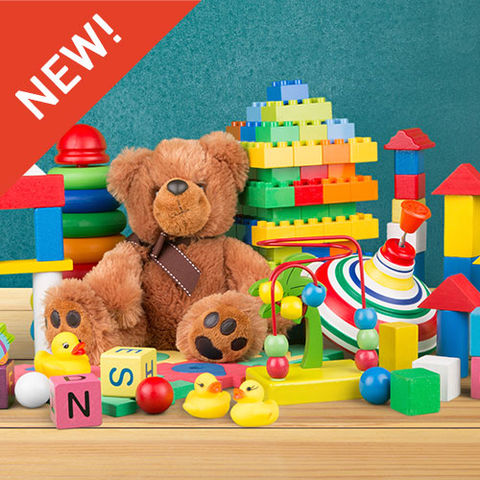
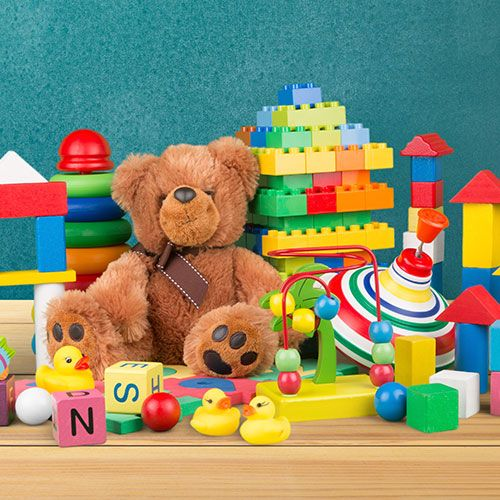
Fix #250. Add isNew property to giftideas object. check isNew property and add ribbon label to new gift ideas. showing isNew gift ideas first, then shuffled ideas after. Update images with 'new' label inside image to regular images.

diff --git a/client/scripts/giftideas/giftideas.ng.html b/client/scripts/giftideas/giftideas.ng.html
@@ -96,8 +96,11 @@
     </div>
     <div class="ui segment basic">
         <div class="ui five doubling cards">
-            <div ng-repeat="idea in giftideas" class="giftidea card">
-                <a class="image" href="{{idea.url}}">
+            <div ng-repeat="idea in giftideas|orderBy:'isNew':true" class="giftidea card">
+                <a class="ui image" href="{{idea.url}}">
+                    <div class="ui red ribbon label" ng-show="{{idea.isNew}}">
+                          <i class="gift icon"></i> New
+                    </div>
                     <img data-src="{{idea.img}}" src="{{idea.img}}" alt="{{idea.alt}}" class="load" />
                 </a>
                 <div class="content">

diff --git a/client/scripts/static-pages/giftideas/giftideas.controller.js b/client/scripts/static-pages/giftideas/giftideas.controller.js
@@ -138,7 +138,7 @@ function GiftideasController($scope, $http, $location, ProductService, UserServi
     $http.get('/assets/giftideas/giftideas.json').then( function (response) {
         $scope.giftideas = [];
         angular.forEach(response.data, function(value, key) {
-            if (value.enabled) $scope.giftideas.push(value);
+            if (value.isEnabled) $scope.giftideas.push(value);
         });
         shuffle($scope.giftideas);
     });
